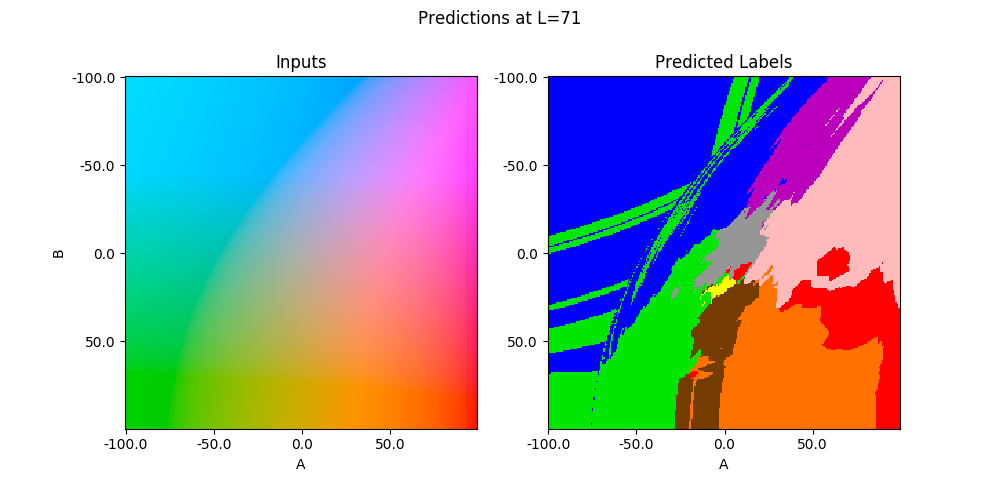
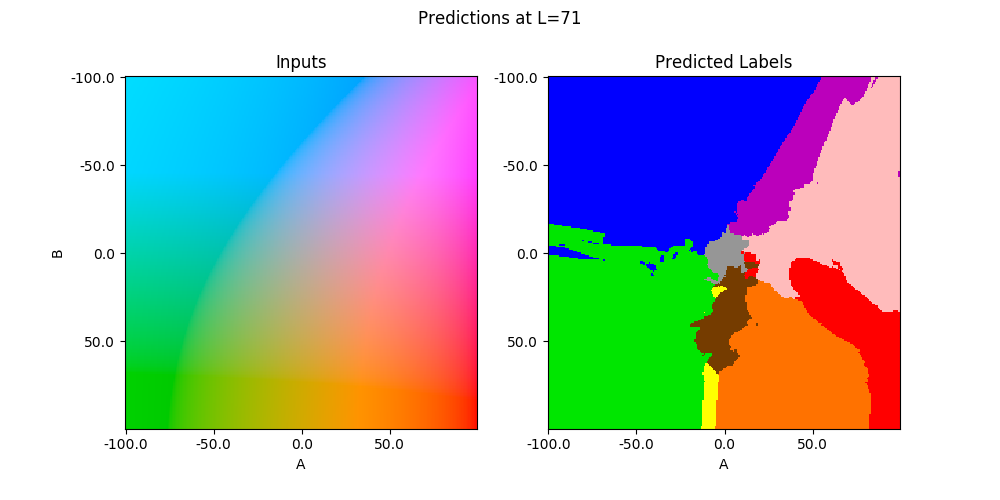
cmpt 318: e8 - fixed colour_predict.py

diff --git a/cmpt318/e8/colour_predict.py b/cmpt318/e8/colour_predict.py
@@ -11,6 +11,7 @@ import pandas as pd
 import matplotlib.pyplot as plt
 import sys
 
+from skimage.color import rgb2lab
 from skimage.color import lab2rgb
 from sklearn.naive_bayes import GaussianNB
 from sklearn.model_selection import train_test_split
@@ -85,7 +86,7 @@ def plot_predictions(model, lum=71, resolution=256):
     plt.imshow(pixels)
 
 def rgb_to_lab(rgb):
-  return lab2rgb(rgb.reshape((-1, 1, 3))).reshape(-1, 3)
+  return rgb2lab(rgb.reshape((1, -1, 3))).reshape(-1, 3)
 
 def main():
     data = pd.read_csv(sys.argv[1])
@@ -98,8 +99,8 @@ def main():
     bayes_lab_model = make_pipeline(FunctionTransformer(rgb_to_lab), GaussianNB())
     knn_rgb_model = KNeighborsClassifier(n_neighbors=5)
     knn_lab_model = make_pipeline(FunctionTransformer(rgb_to_lab), KNeighborsClassifier(n_neighbors=5))
-    svc_rgb_model = SVC(kernel='linear')
-    svc_lab_model = make_pipeline(FunctionTransformer(rgb_to_lab), SVC(kernel='linear'))
+    svc_rgb_model = SVC(kernel='linear', C=2.0)
+    svc_lab_model = make_pipeline(FunctionTransformer(rgb_to_lab), SVC(kernel='linear', C=2.0))
   
     # train each model and output image of predictions
     models = [bayes_rgb_model, bayes_lab_model, knn_rgb_model, knn_lab_model, svc_rgb_model, svc_lab_model]
